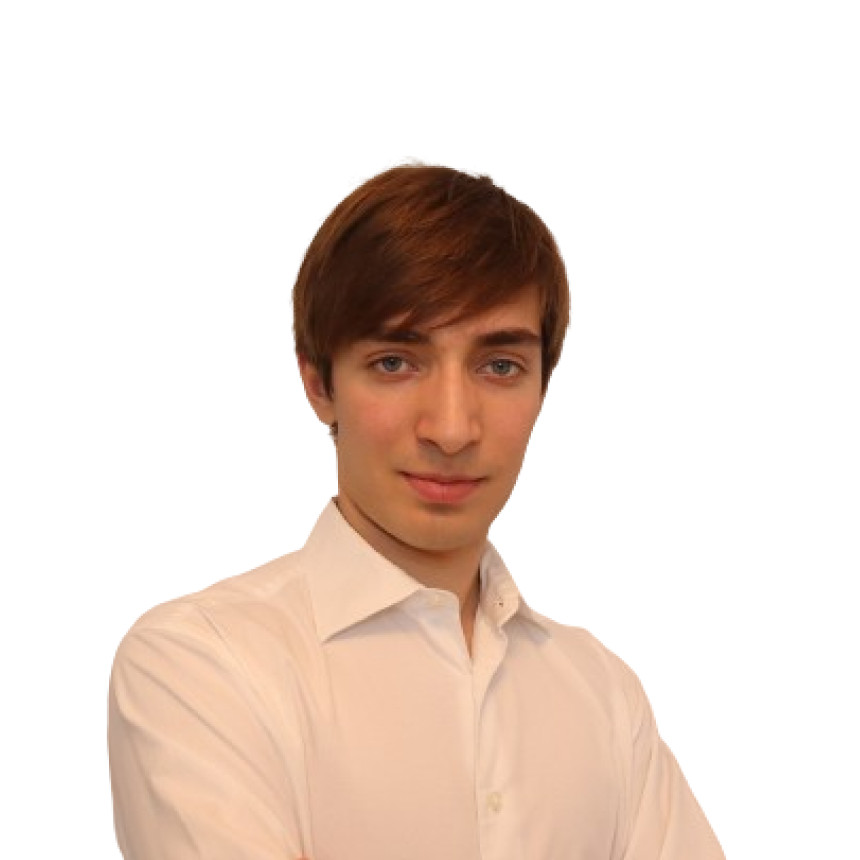
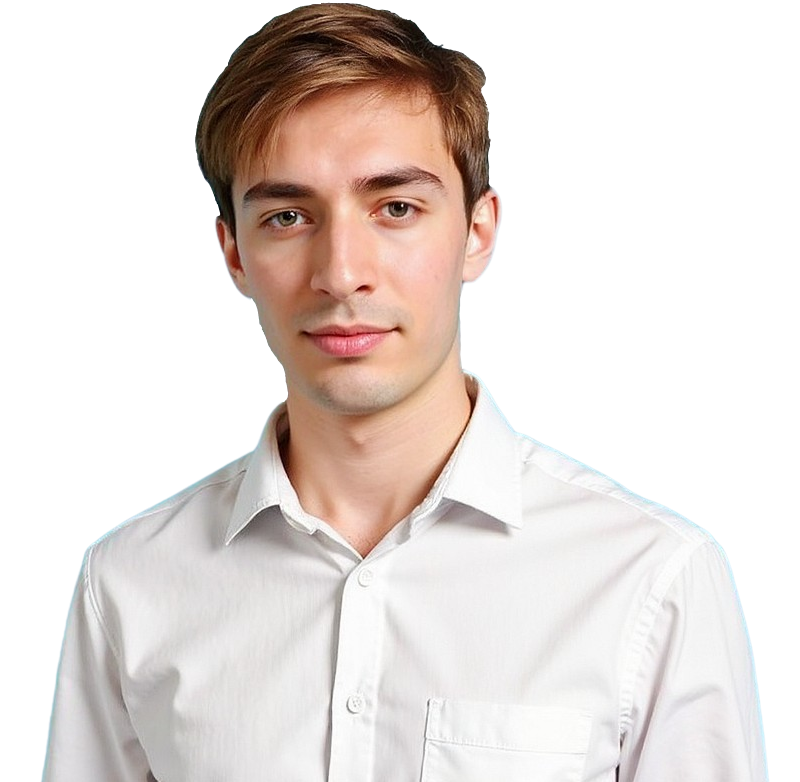
Modified hero

diff --git a/frontend/components/Footer.vue b/frontend/components/Footer.vue
@@ -4,18 +4,18 @@
             <div class="left">
                 <div class="copyright">© 2024 Daniel Ladeira</div>
             </div>
-            <!-- <div class="icons">
+            <div class="icons">
                 <nuxt-img src="/icons/github.svg" class="icon icon-github" />
                 <nuxt-img src="/icons/dribbble.svg" class="icon icon-dribbble" />
                 <nuxt-img src="/icons/discord.svg" class="icon icon-discord" />
                 <nuxt-img src="/icons/overflow.svg" class="icon icon-overflow" />
                 <nuxt-img src="/icons/linkedin.svg" class="icon icon-linkedin" />
-            </div> -->
-            <div class="flags">
+            </div>
+            <!-- <div class="flags">
                 <nuxt-link class="flag-wrapper" :href="switchLocalePath('en')" aria-label="Switch to English"><nuxt-img :class="$i18n.locale == 'en' ? 'flag-active' : 'flag'" src="/flags/us.png" alt="US Flag" /></nuxt-link>
                 <nuxt-link class="flag-wrapper" :href="switchLocalePath('pl')" aria-label="Zmień na polski"><nuxt-img :class="$i18n.locale == 'pl' ? 'flag-active' : 'flag'" src="/flags/pl.png" alt="PL Flag" /></nuxt-link>
                 <nuxt-link class="flag-wrapper" :href="switchLocalePath('pt')" aria-label="Muda para portugês"><nuxt-img :class="$i18n.locale == 'pt' ? 'flag-active' : 'flag'" src="/flags/pt.png" alt="PT Flag" /></nuxt-link>
-            </div>
+            </div> -->
         </div>
     </div>
 </template>
@@ -68,9 +68,15 @@
 .icon {
     opacity: 0.5;
 
+    transition: all 200ms $transition;
+
     &:hover {
         cursor: pointer;
         opacity: 1;
+    }
+
+    &-discord:hover {
+        cursor: default;
     }
 }
 
@@ -89,7 +95,7 @@
     border-radius: 3px;
 
     opacity: 0.3;
-    transition: all 200ms cubic-bezier(0.165, 0.84, 0.44, 1);
+    transition: all 200ms $transition;
 
     &-active {
         @extend .flag;

diff --git a/frontend/pages/index.vue b/frontend/pages/index.vue
@@ -20,7 +20,9 @@
                 </div>
             </div>
         </div>
-        <nuxt-img src="/hero-frame.png" class="hero" :style="{ opacity: 0 }" />
+        <div class="hero-wrapper">
+            <nuxt-img src="/hero.png" class="hero" />
+        </div>
     </div>
 </template>
 
@@ -130,5 +132,31 @@
     justify-content: flex-start;
     align-items: center;
     gap: 4rem;
+}
+
+.hero-wrapper {
+    display: flex;
+    flex-direction: column;
+    justify-content: center;
+    align-items: flex-start;
+
+    background-color: rgba($blue, 0.1);
+
+    border-radius: 3rem;
+
+    padding: 3rem 0 0 1rem;
+
+    height: 29rem;
+    width: 29rem;
+
+    overflow: hidden;
+}
+
+.hero {
+    width: 100%;
+
+    opacity: 0;
+
+    animation: slide-from-right $animation-duration forwards;
 }
 </style>

diff --git a/frontend/components/Navbar.vue b/frontend/components/Navbar.vue
@@ -29,11 +29,13 @@
 
 <style lang="scss" scoped>
 .container {
-    position: absolute;
+    position: fixed;
 
     width: 100%;
 
     z-index: 4;
+
+    background-color: $background-color-1;
 }
 
 .inner-container {

diff --git a/frontend/assets/styles/global.scss b/frontend/assets/styles/global.scss
@@ -77,7 +77,6 @@ body {
     font-size: 2.5rem;
 
     animation: $animation-title-duration forwards slide-from-top;
-    animation-delay: $animation-title-delay;
 
     opacity: 0;
 }

diff --git a/frontend/pages/contact.vue b/frontend/pages/contact.vue
@@ -40,7 +40,6 @@
     opacity: 0;
 
     animation: $animation-title-duration forwards slide-from-top;
-    animation-delay: $animation-title-delay;
 }
 
 .contact-title {
